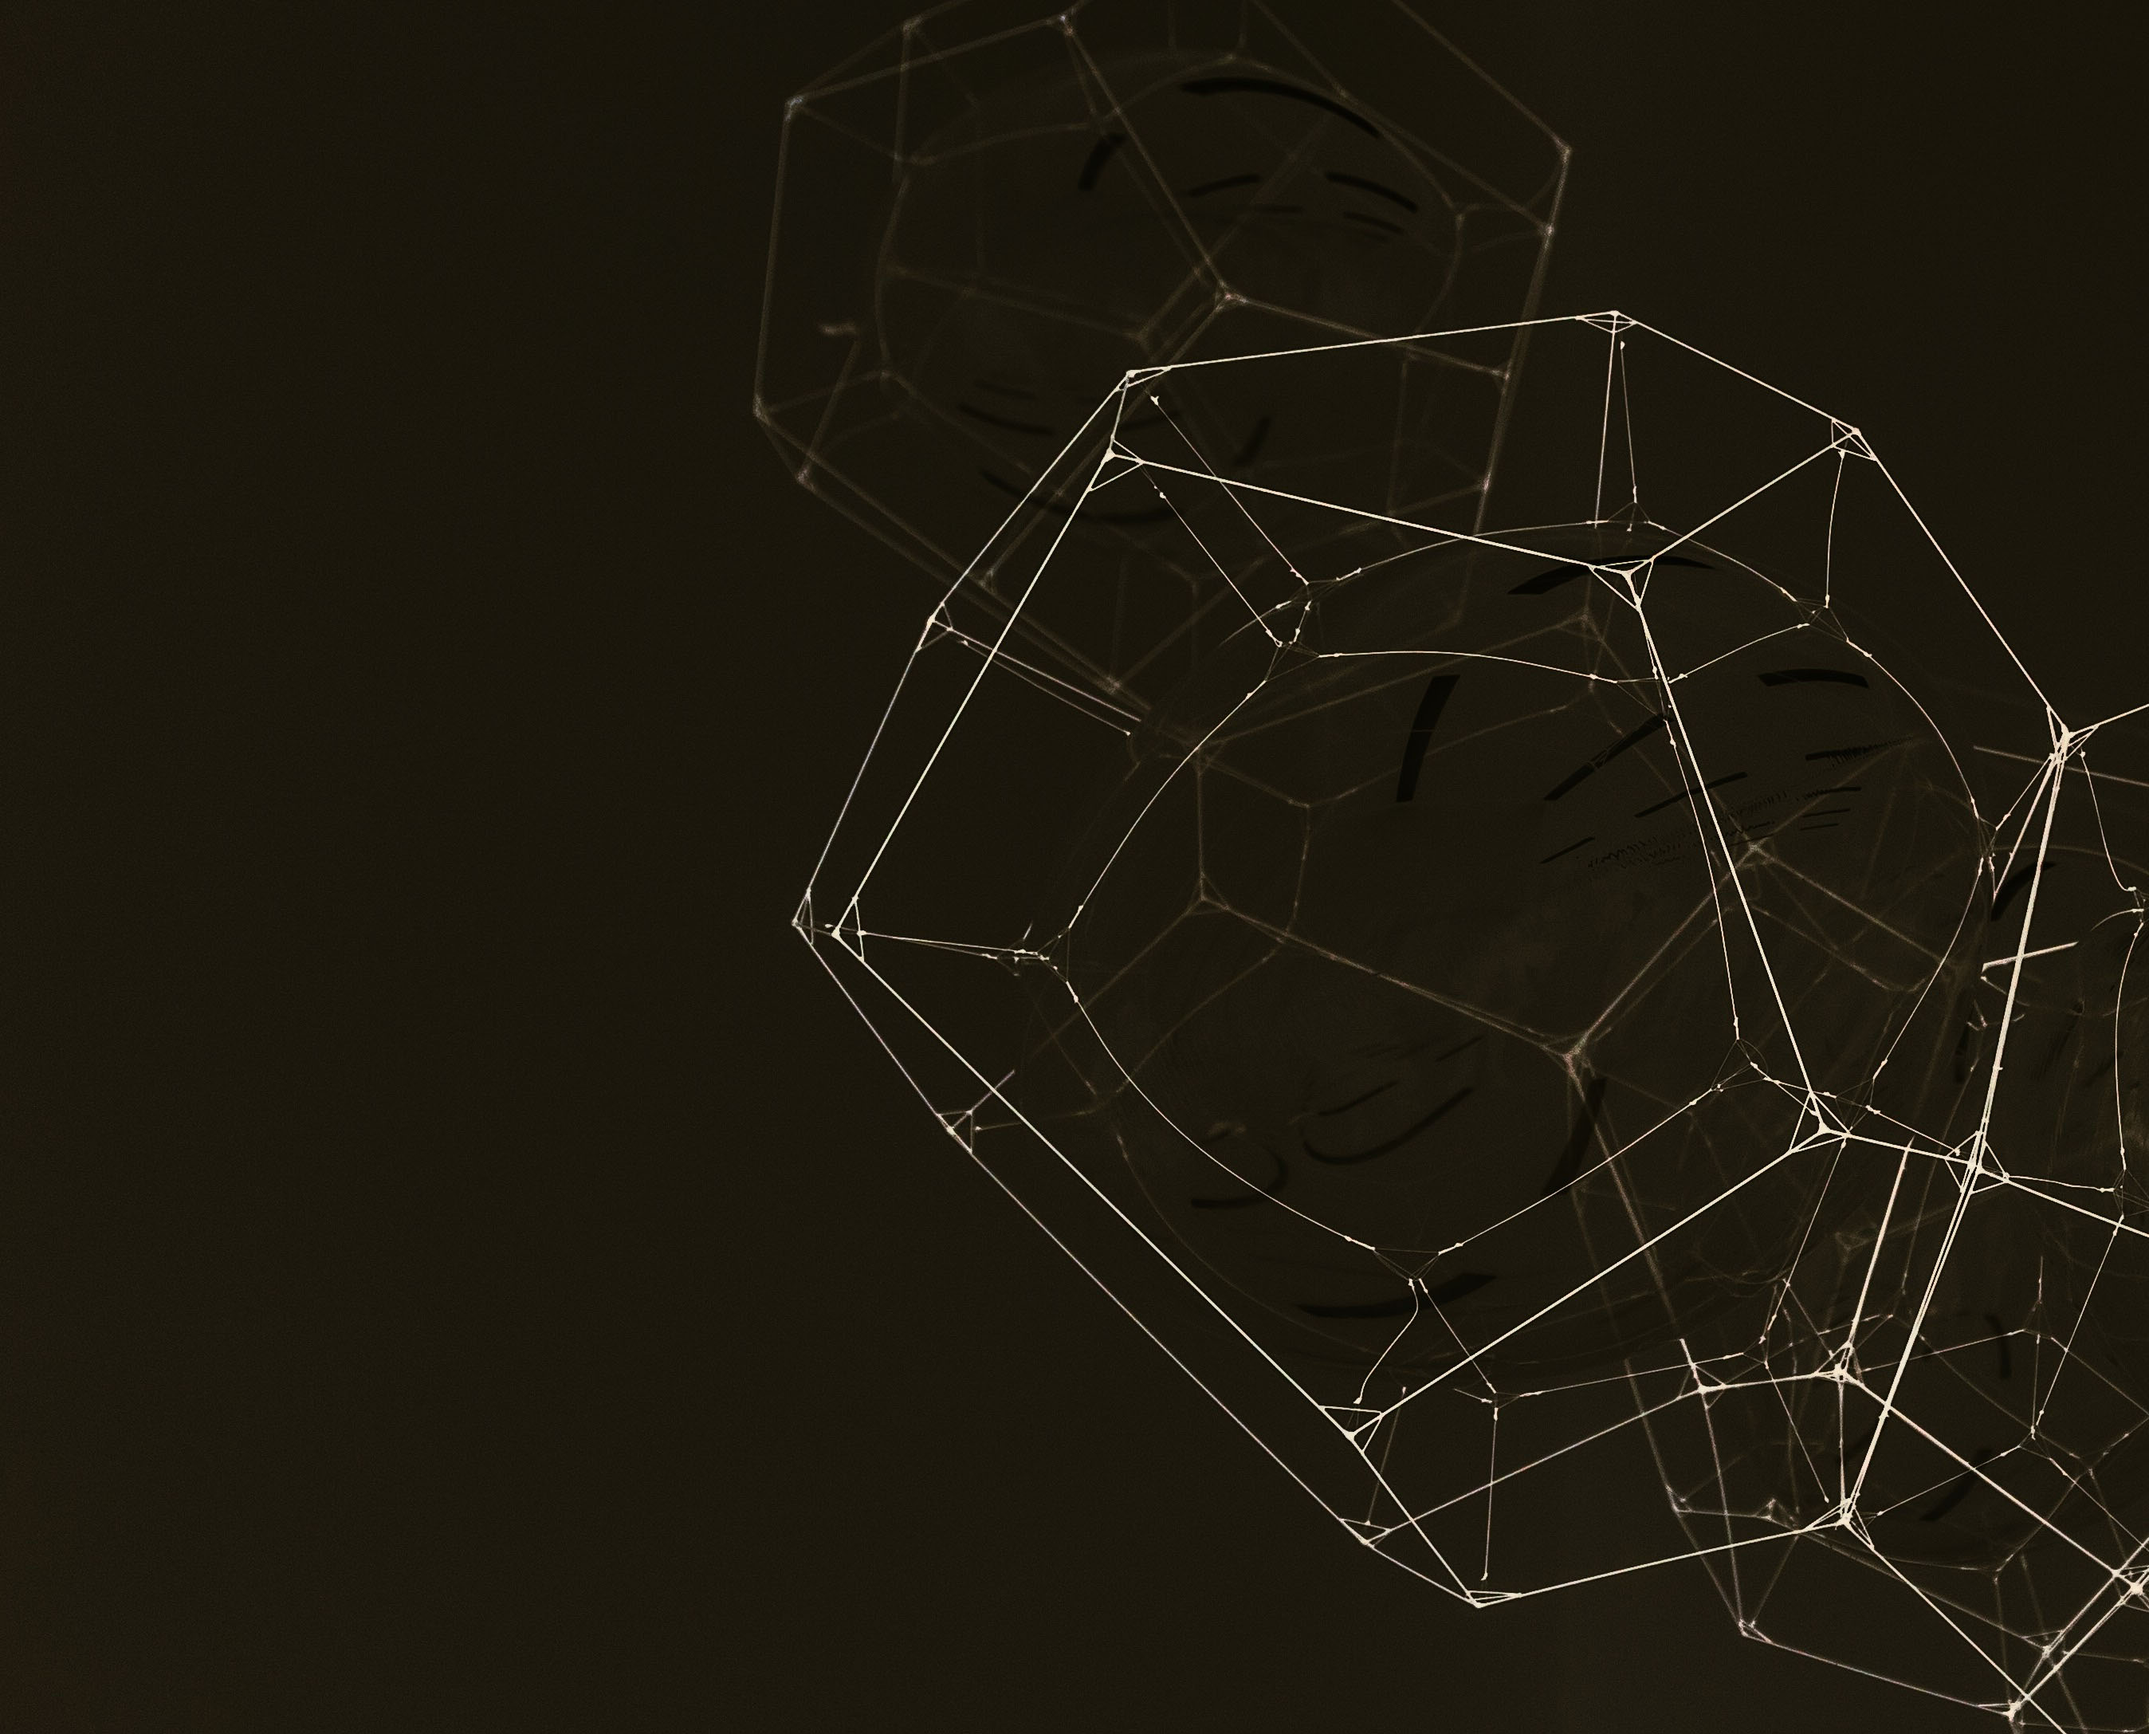
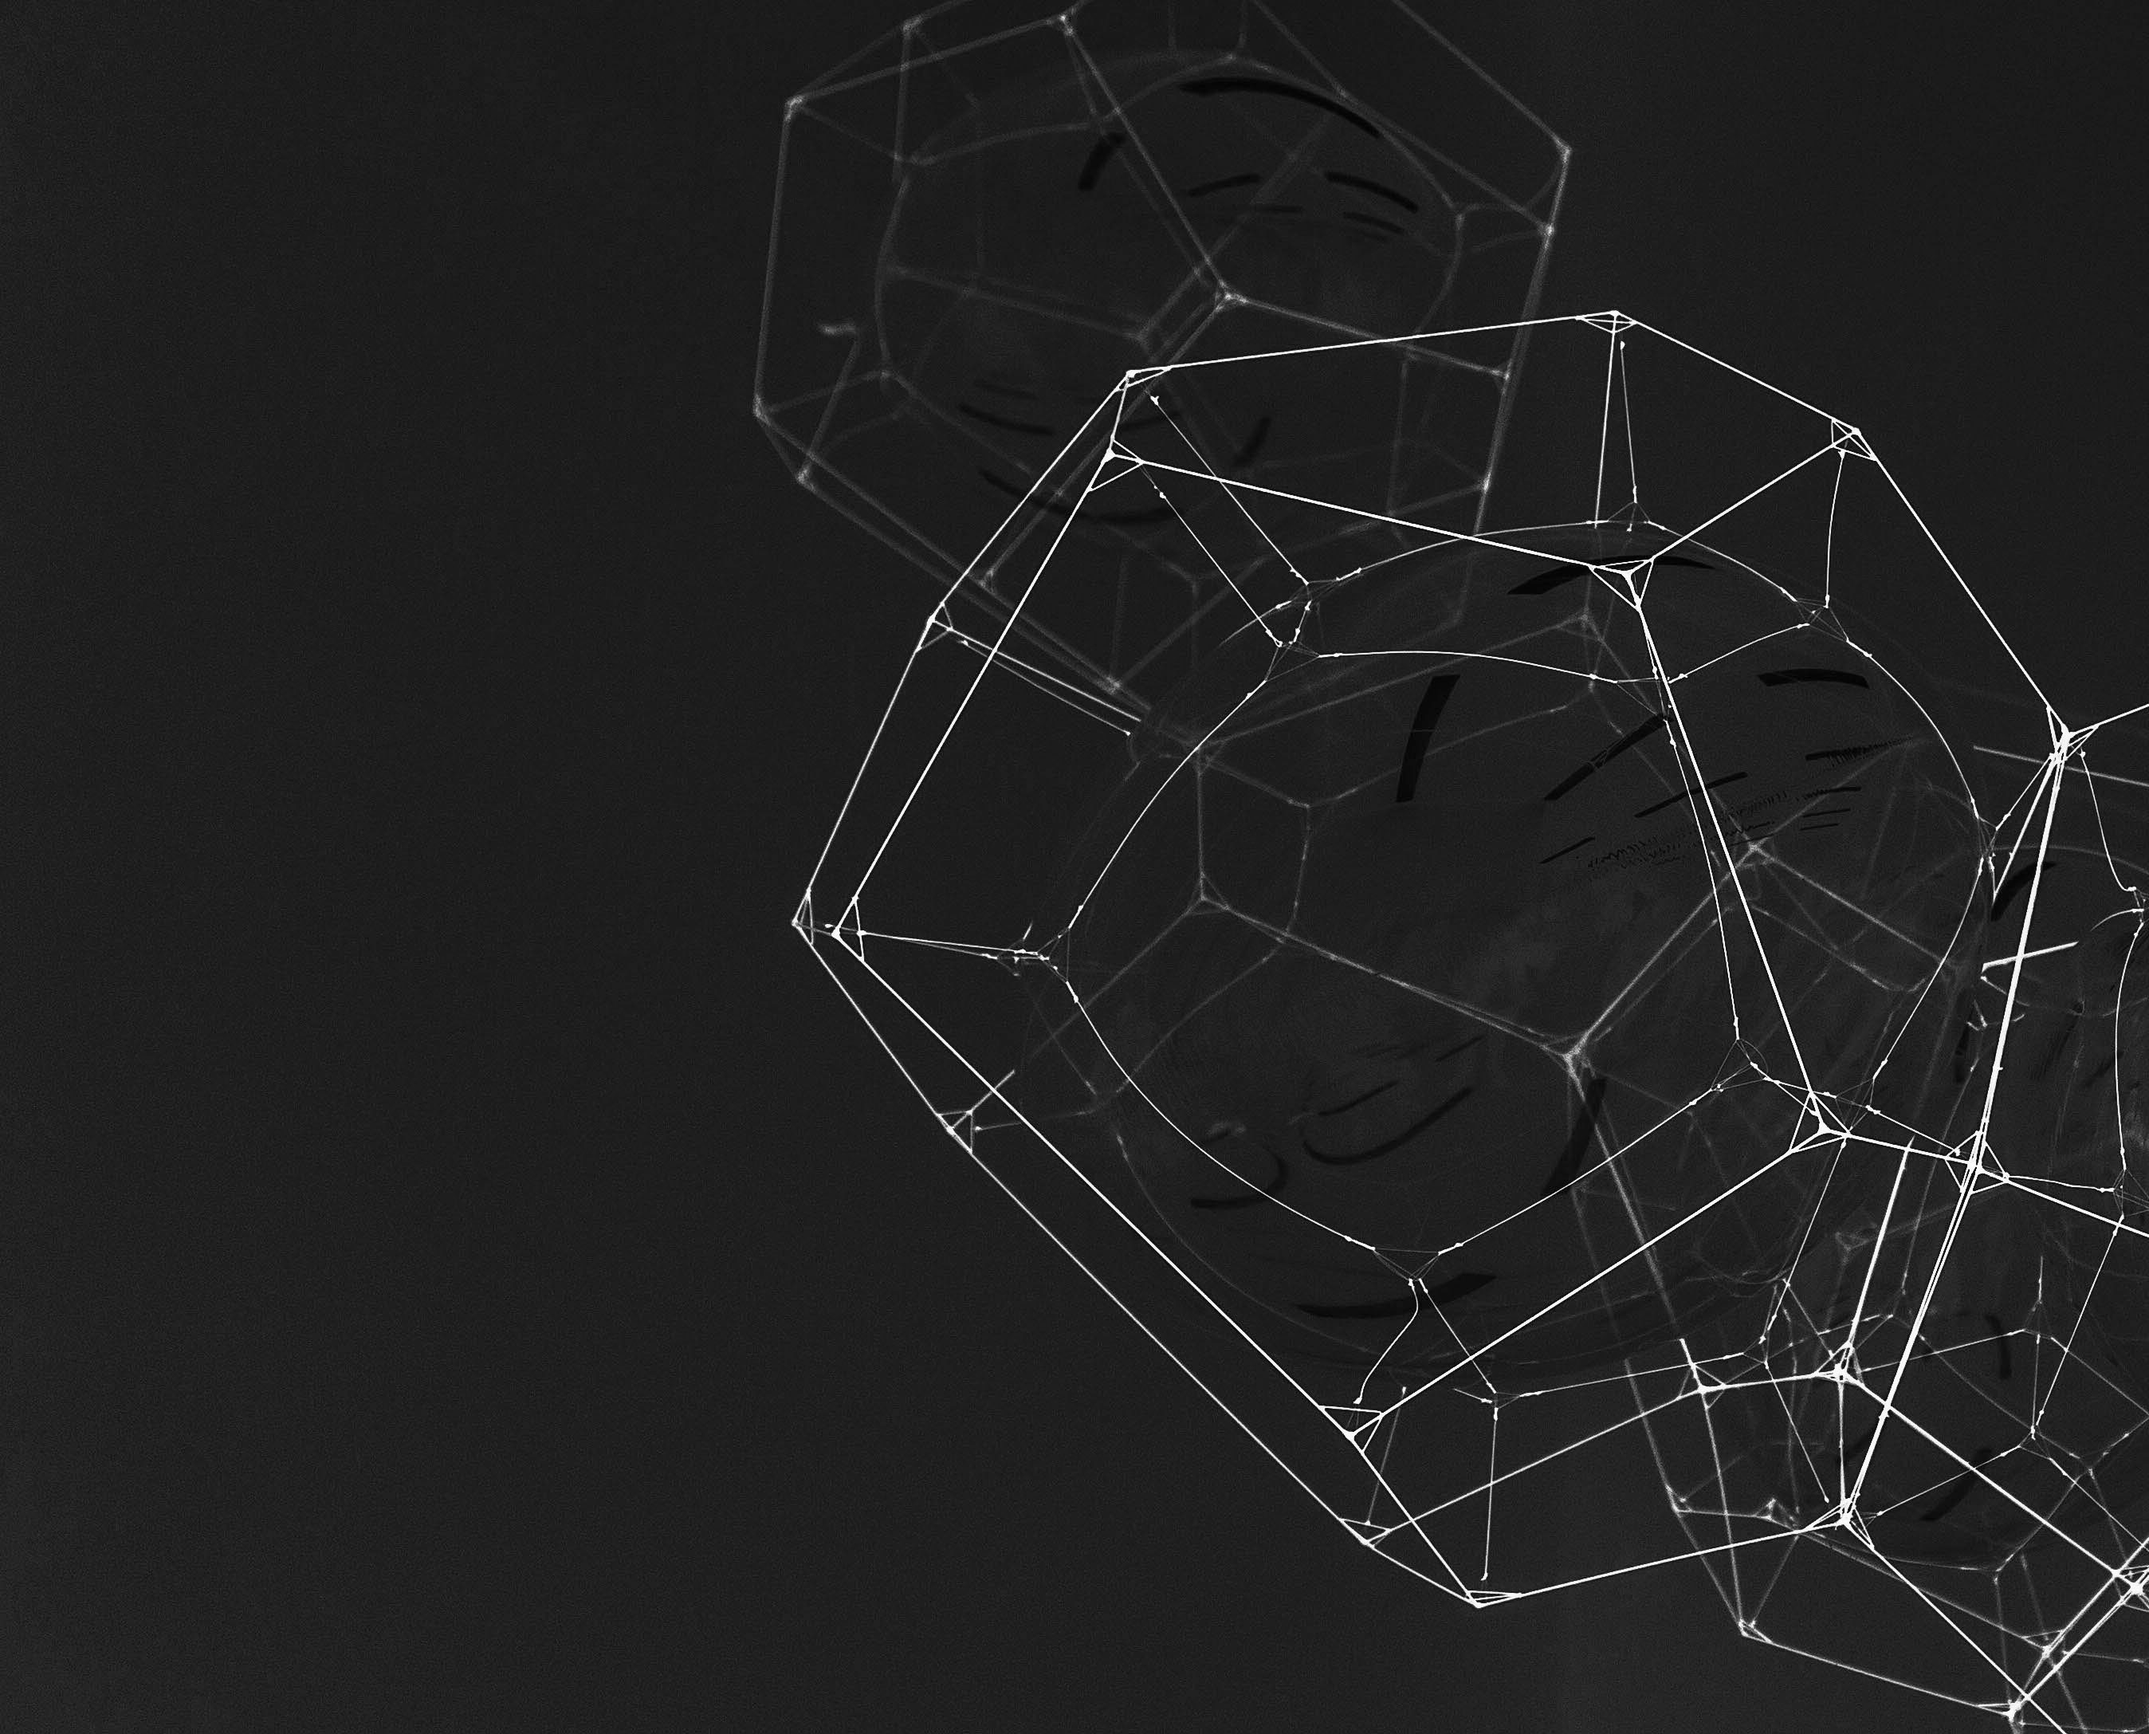
Update visuals, bump the ruby version

diff --git a/source/stylesheets/site.css.scss b/source/stylesheets/site.css.scss
@@ -108,22 +108,92 @@ h2 .post-title {
   margin: 5px 0 15px 0;
 }
 
+.falling-guy {
+  background-image: url('/images/blobs/blob_small1.png');
+  background-size: contain;
+  background-repeat: no-repeat;
+  background-position: bottom left;
+  right: 50px;
+  top: -30px;
+  height: 30px;
+  position: absolute;
+  width: 30px;
+  transition: all 0.3s;
+
+  &[data-fallen="true"] {
+    transform: translateY(50px);
+    opacity: 0;
+    z-index: -1
+  }
+}
+
 .article-preview {
+  .falling-guy {
+    visibility: hidden;
+  }
+
+  &:nth-child(2) {
+    .falling-guy {
+      visibility: visible;
+    }
+  }
+
+  &:nth-child(2n) {
+    .extra-info .item:first-child {
+      transform: rotate(0deg);
+    }
+  }
+
+  &:nth-child(3n) {
+    .extra-info .item:first-child {
+      transform: rotate(1deg);
+    }
+  }
+
+  &:nth-child(4n) {
+    .extra-info .item {
+      transform: rotate(-2deg);
+    }
+  }
+
+  &:nth-child(5n) {
+    .extra-info .item {
+      transform: rotate(3deg);
+    }
+    .extra-info .item:first-child {
+      transform: rotate(-2deg);
+    }
+  }
+
+  &:nth-child(7n) {
+    .extra-info .item:first-child {
+      transform: rotate(2deg);
+    }
+  }
+}
+
+
+.article-preview {
+  border-radius: 10px;
   color: inherit;
   display: block;
   background-color: #fff;
-  font-size: 1rem;
+  font-size: 1.25rem;
   margin-bottom: $preview-cards-margin;
-  padding: 2.75rem 3rem 3.1rem 3rem;
+  padding: 2rem 2.5rem 3rem 2.5rem;
   border-bottom: 3px solid #eee;
   text-decoration: none;
+  position: relative;
 
   h2 {
     padding: 0;
     margin: 0;
-    margin-bottom: 1.5rem;
-    font-size: 1.5rem;
+    font-size: 1.25rem;
     line-height: 1.6;
+  }
+
+  section.body {
+    font-size: 1rem;
   }
 
   section.body p,
@@ -134,8 +204,25 @@ h2 .post-title {
   }
 
   .extra-info {
-    margin-bottom: 1.5rem;
-    margin-top: 0;
+    opacity: 0.4;
+    margin: 0;
+    font-size: 1rem;
+    position: absolute;
+    right: 12px;
+    bottom: 14px;
+
+    .item {
+      background-color: rgba(0, 0, 0, 0.1);
+      border-radius: 3px;
+      display: inline-block;
+      font-size: 13px;
+      margin-left: 15px;
+      padding: 5px 9px;
+    }
+
+    .item:first-child {
+      transform: rotate(4deg);
+    }
   }
 
   .icon {
@@ -161,15 +248,14 @@ h2 .post-title {
 
   .tag-name {
     text-decoration: none;
-    display: inline-block;
-    margin-left: 6px;
-    position: relative;
-    line-height: 1.1;
-    opacity: 0.75;
-    vertical-align: top;
+    color: inherit;
 
     &:hover {
       text-decoration: underline;
+    }
+
+    &:empty {
+      display: none;
     }
   }
 

diff --git a/source/stylesheets/variables.scss b/source/stylesheets/variables.scss
@@ -1,10 +1,11 @@
 // Variables and mixins
 
-$theme-main-brand: #37d6b2;
+$theme-main-brand: #ea7658;
 $theme-light-accent: #8ea4b9;
-$theme-light-shades: #f6f3f4;
+$theme-light-shades: #f1f0ec;
 $theme-dark-accent: #657677; //#75596a;
-$theme-dark-shades: #22283b;
+// $theme-dark-shades: #22283b;
+$theme-dark-shades: #33353a;
 
 $theme-light-lighter: #fff;
 

diff --git a/source/javascripts/all.js b/source/javascripts/all.js
@@ -1,1 +1,7 @@
-//= require_tree .
+var fallingGuys = document.querySelectorAll(".falling-guy");
+
+[].forEach.call(fallingGuys, function(guy) {
+  guy.addEventListener("mouseover", function(e) {
+    e.target.setAttribute("data-fallen", "true");
+  });
+});

diff --git a/lib/custom_helpers/article_helpers.rb b/lib/custom_helpers/article_helpers.rb
@@ -14,5 +14,14 @@ module CustomHelpers
       raise "No id provided for #{article.url}" unless article.data.id
       article.data.id
     end
+
+    def self.main_tag_link(article)
+      normalized_name = article.tags.first
+      normalized_name = normalized_name ? normalized_name.downcase : ""
+
+      "<a class='item tag-name' href='/tags/#{normalized_name}.html'>
+        #{normalized_name}
+      </a>"
+    end
   end
 end
